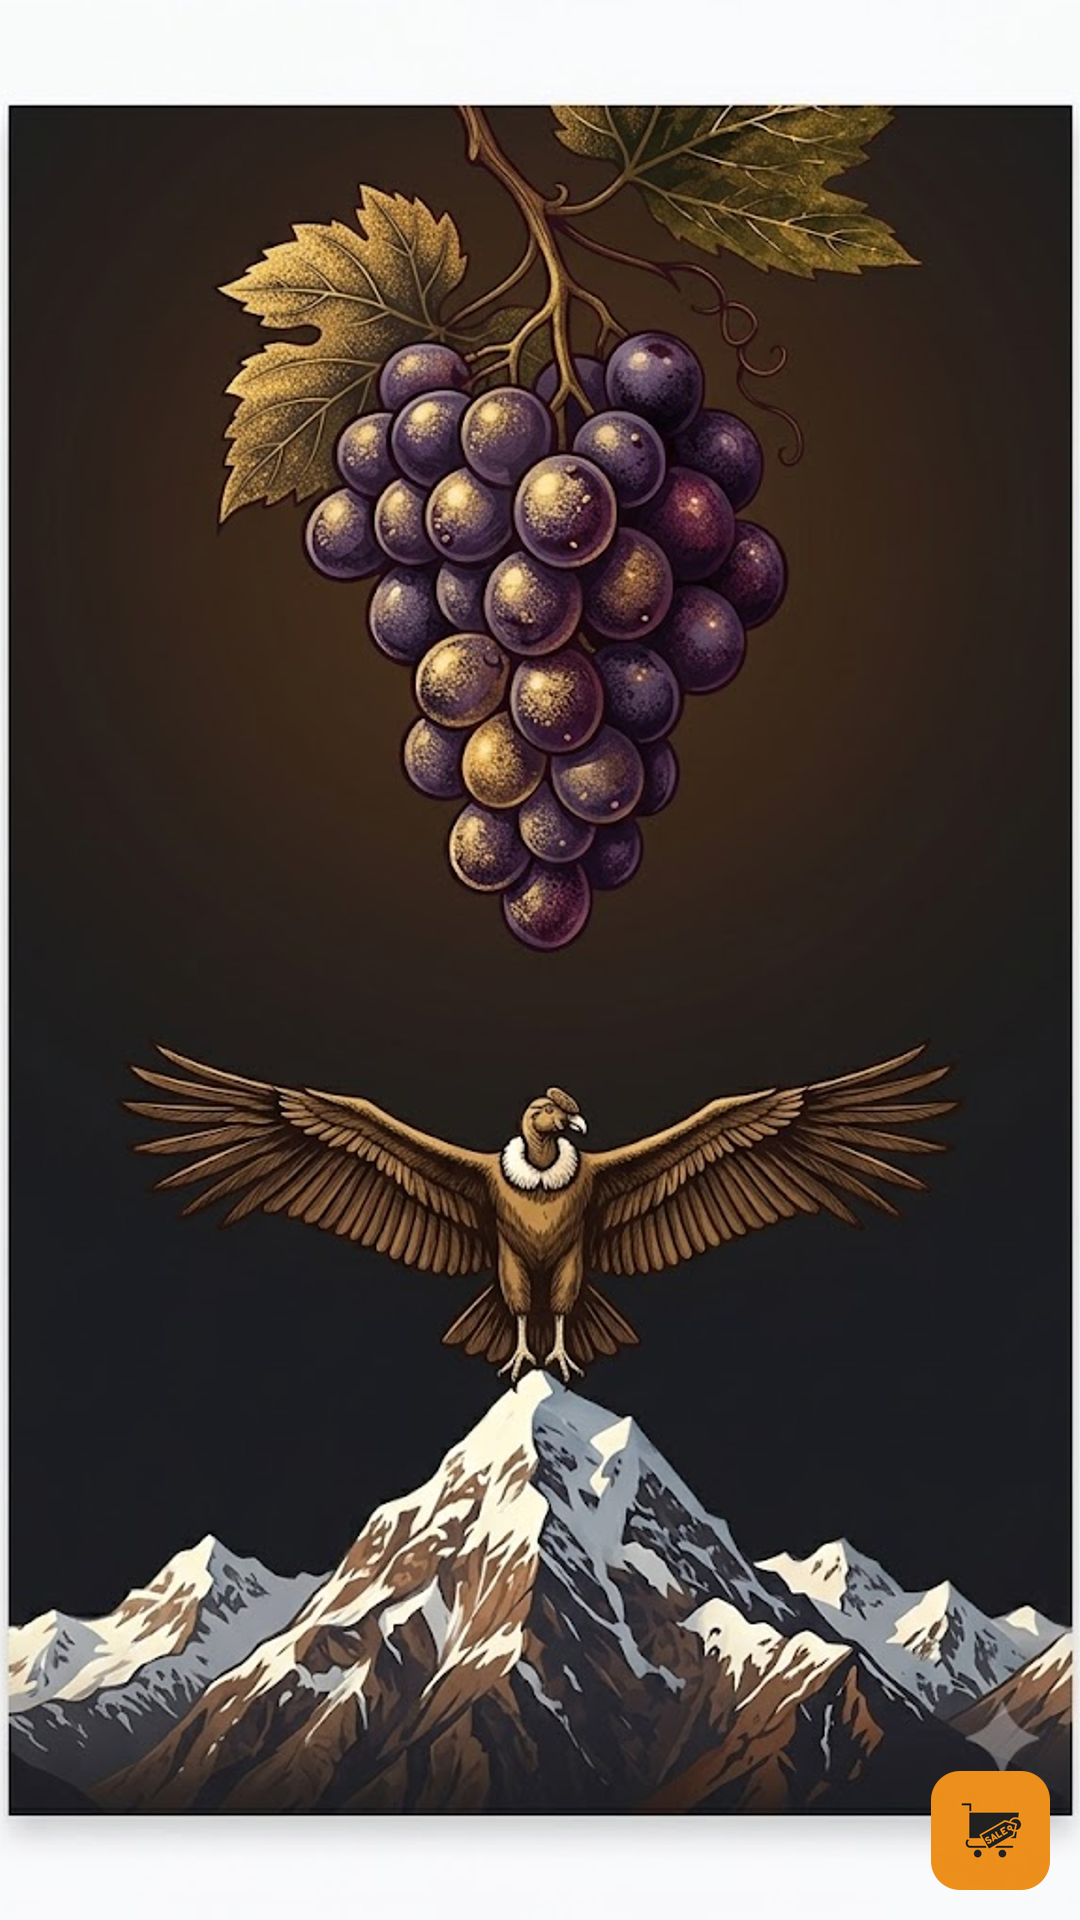
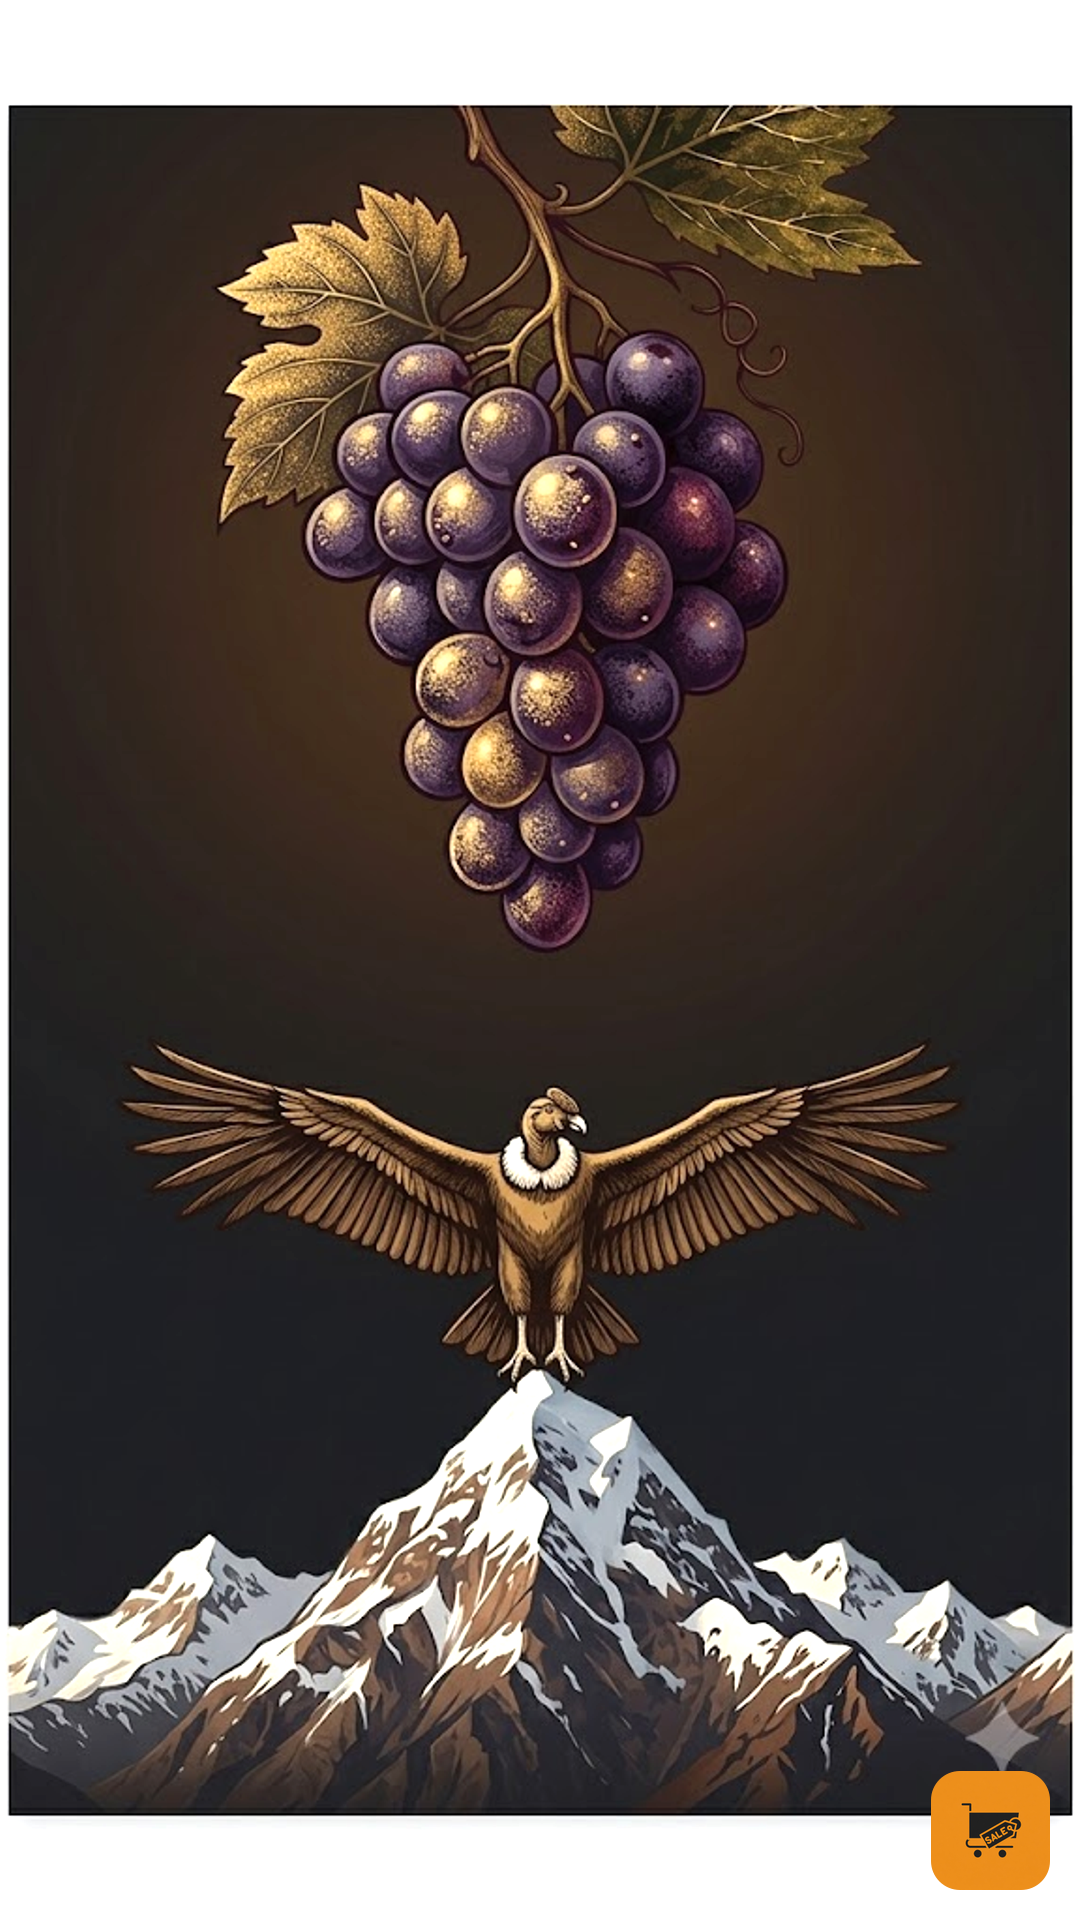
Brighten mobile hero background for clearer storefront view.
Boost mobile image brightness in hero-bg export and use lighter gradient overlays on small screens only.

diff --git a/src/components/mendoshop-page-background.tsx b/src/components/mendoshop-page-background.tsx
@@ -29,8 +29,8 @@ export function MendoshopPageBackground() {
         sizes="(min-width: 768px) 100vw, 0px"
         className="mendoshop-page-bg__img hidden md:block"
       />
-      <div className="absolute inset-0 bg-gradient-to-b from-black/[0.58] via-black/[0.48] to-black/[0.68]" />
-      <div className="absolute inset-0 bg-[radial-gradient(ellipse_90%_70%_at_50%_20%,rgba(0,0,0,0.25),transparent_65%)]" />
+      <div className="absolute inset-0 bg-gradient-to-b from-black/35 via-black/28 to-black/45 md:from-black/[0.58] md:via-black/[0.48] md:to-black/[0.68]" />
+      <div className="absolute inset-0 bg-[radial-gradient(ellipse_90%_70%_at_50%_20%,rgba(0,0,0,0.12),transparent_65%)] md:bg-[radial-gradient(ellipse_90%_70%_at_50%_20%,rgba(0,0,0,0.25),transparent_65%)]" />
     </div>
   )
 }